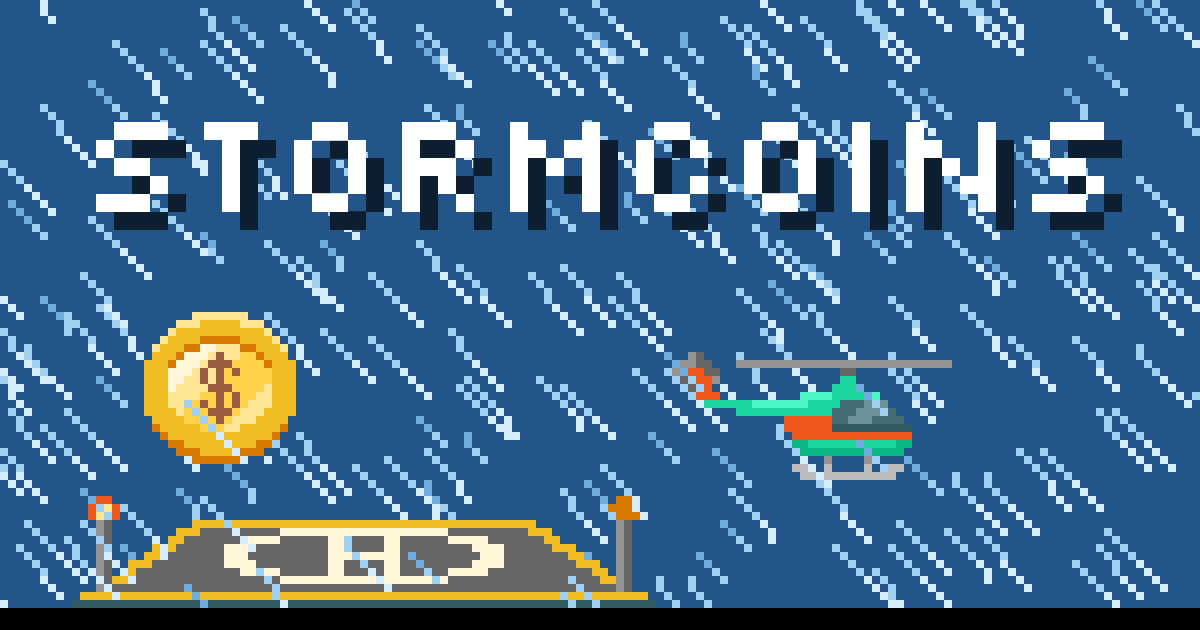
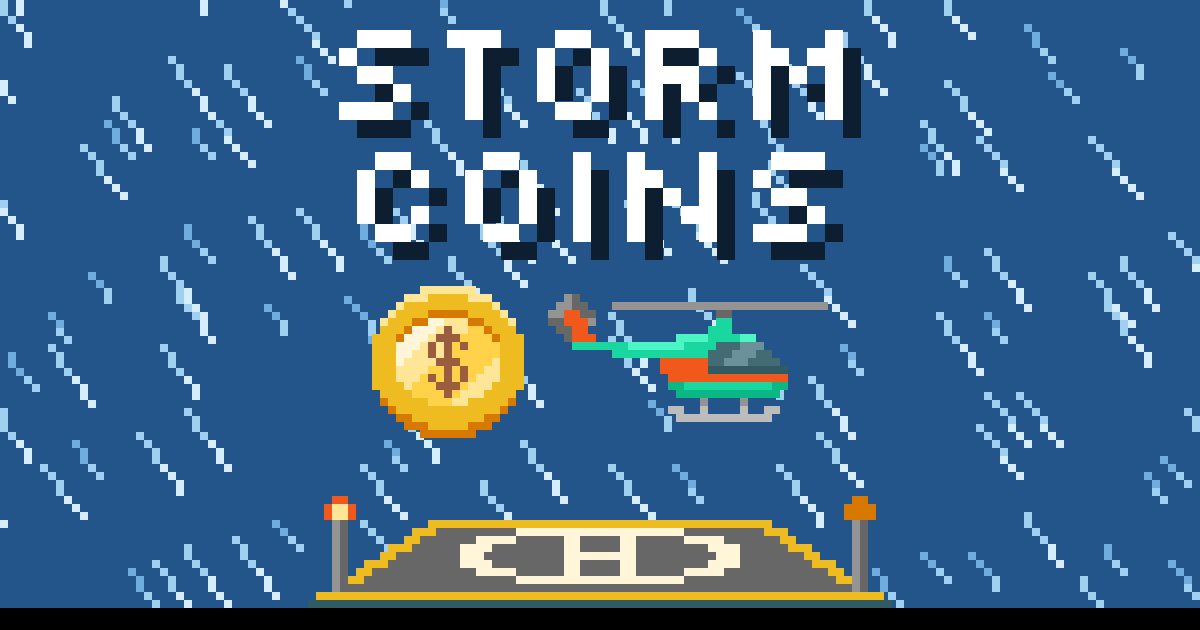
Make the preview image survive a center-square crop
Stack the title and keep the coin, copter and helipad inside the center square, still at 1200x630. Version the image URL so platforms that cached the old image by URL fetch the new one.

diff --git a/index.html b/index.html
@@ -18,7 +18,7 @@
     <meta property="og:url" content="https://chrisbolin.co/stormcoins/" />
     <meta property="og:title" content="SKYCOINS 2: STORMCOINS" />
     <meta property="og:description" content="Get coin, land safely, repeat. Beware of the wind." />
-    <meta property="og:image" content="https://chrisbolin.co/stormcoins/og-image.png" />
+    <meta property="og:image" content="https://chrisbolin.co/stormcoins/og-image.png?v=2" />
     <meta property="og:image:type" content="image/png" />
     <meta property="og:image:width" content="1200" />
     <meta property="og:image:height" content="630" />
